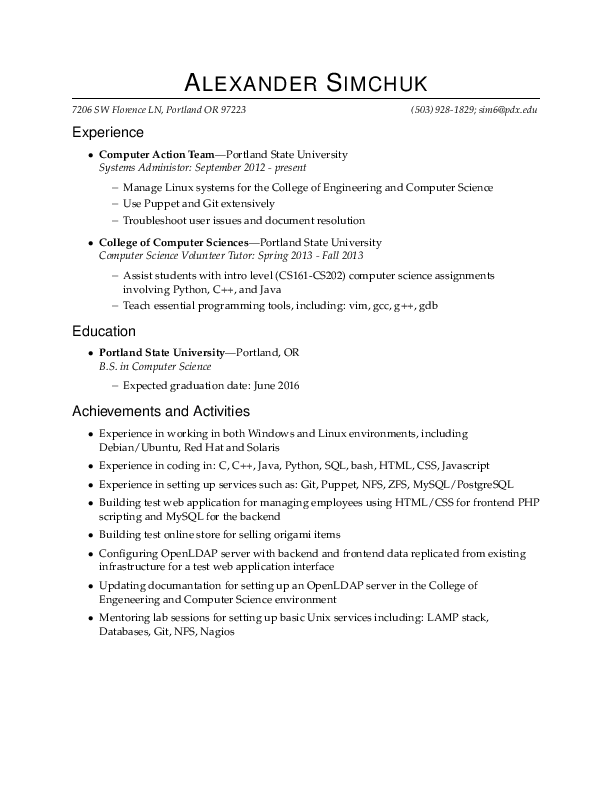
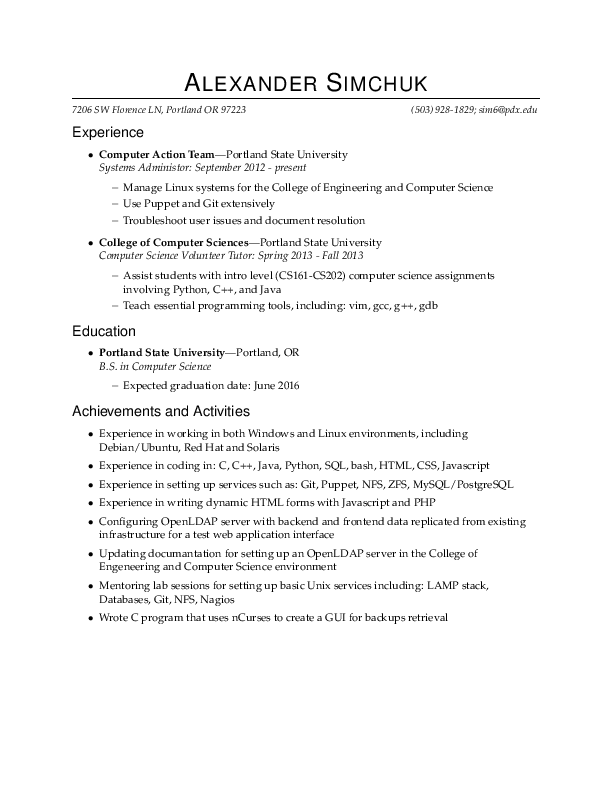
Updated on Fri Mar  6 17:09:42 PST 2015

Changed region(s): [[0.1552, 0.6061, 0.8693, 0.8182]]

diff --git a/resume.tex b/resume.tex
@@ -119,11 +119,11 @@
     \resitem{Experience in working in both Windows and Linux environments, including Debian/Ubuntu, Red Hat and Solaris}
     \resitem{Experience in coding in: C, C++, Java, Python, SQL, bash, HTML, CSS, Javascript}
     \resitem{Experience in setting up services such as: Git, Puppet, NFS, ZFS, MySQL/PostgreSQL}
-    \resitem{Building test web application for managing employees using HTML/CSS for frontend PHP scripting and MySQL for the backend}
-    \resitem{Building test online store for selling origami items}
+    \resitem{Experience in writing dynamic HTML forms with Javascript and PHP}
     \resitem{Configuring OpenLDAP server with backend and frontend data replicated from existing infrastructure for a test web application interface}
     \resitem{Updating documantation for setting up an OpenLDAP server in the College of Engeneering and Computer Science environment}
     \resitem{Mentoring lab sessions for setting up basic Unix services including: LAMP stack, Databases, Git, NFS, Nagios}
+    \resitem{Wrote C program that uses nCurses to create a GUI for backups retrieval}
 \end{ressection}
 
 
